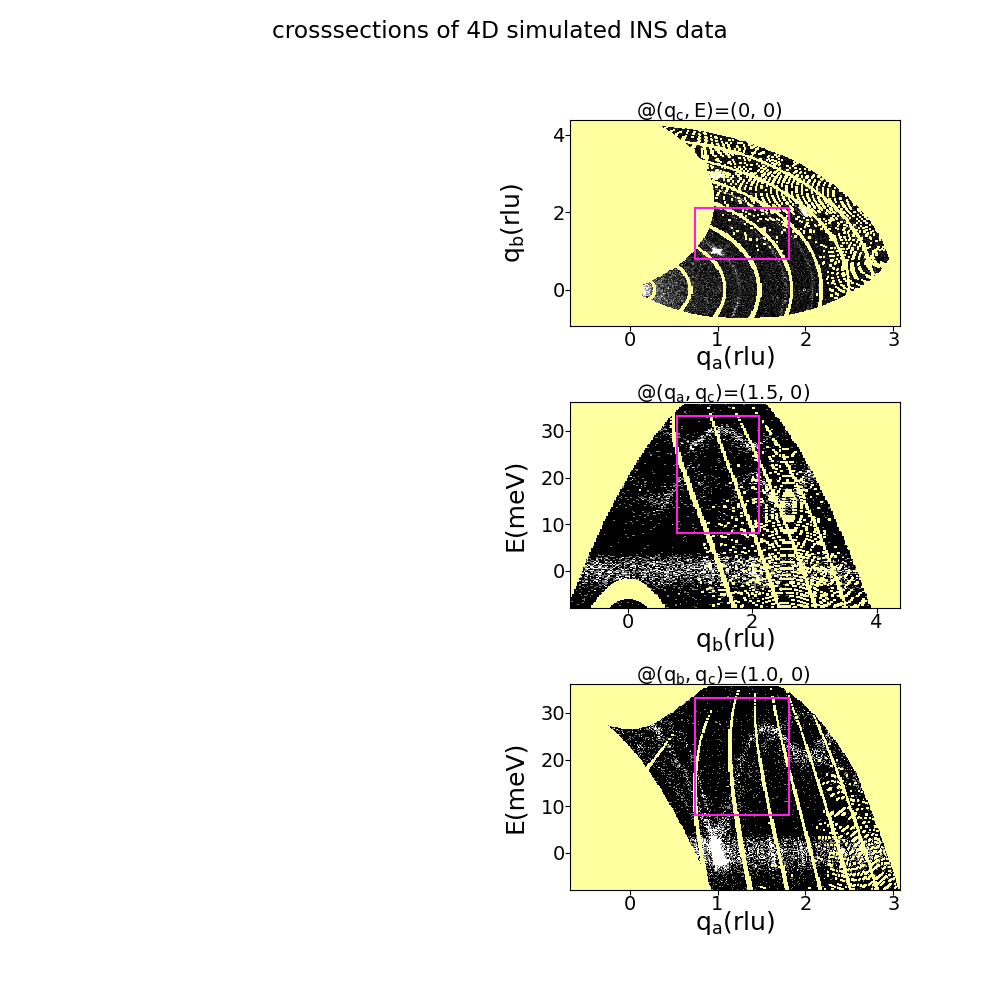
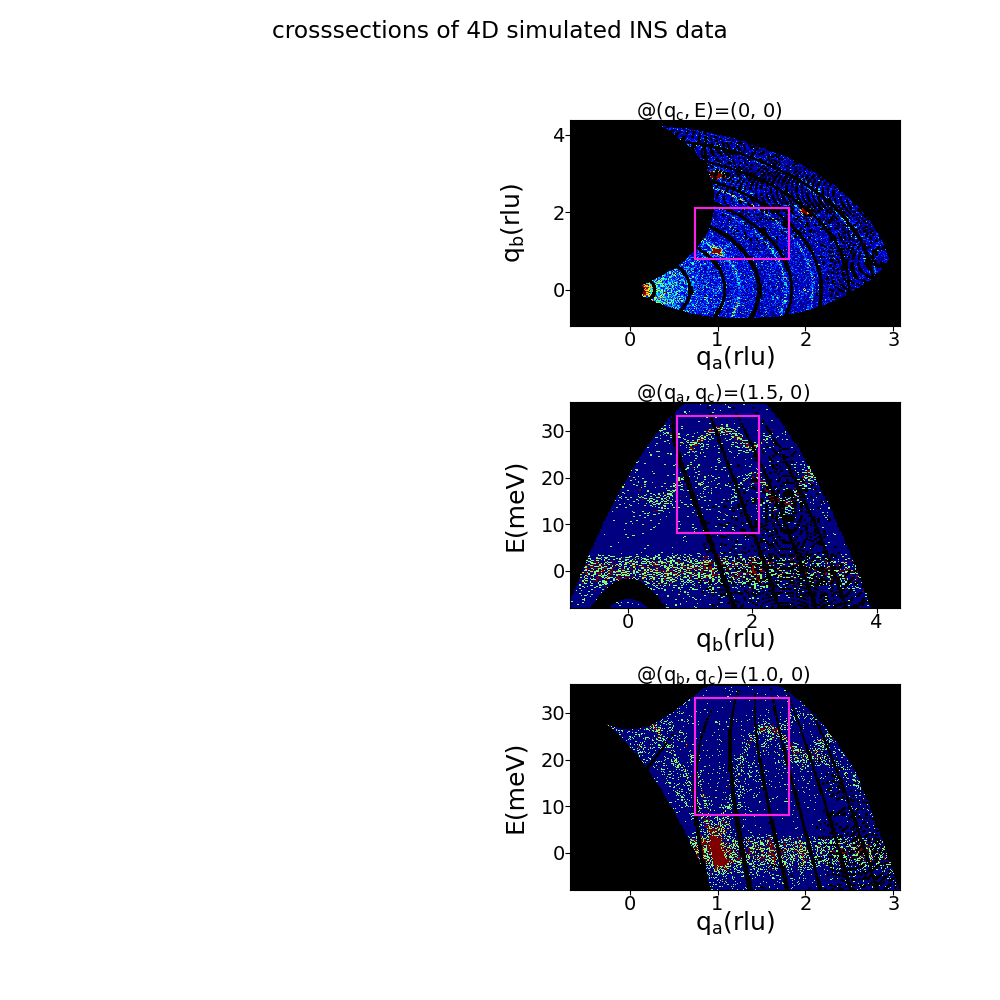
for_advsoft_koenkai

Changed region(s): [[0.558, 0.682, 0.899, 0.899], [0.558, 0.403, 0.899, 0.62], [0.558, 0.124, 0.899, 0.341]]

diff --git a/fig_for_resultexample_advsoft_koenkai.py b/fig_for_resultexample_advsoft_koenkai.py
@@ -7,14 +7,14 @@ plt.rcParams['font.family'] = 'Arial'
 plt.rcParams["font.size"] = 14
 #plt.rcParams["xtick.top"] = True
 #plt.rcParams["xtick.labeltop"] = True
-fig = plt.figure(figsize=(10, 10))
-fig.suptitle("crosssections of 4D simulated INS data")
+fig = plt.figure(figsize=(16, 16))
+fig.suptitle("crosssections of 4D INS data")
 
 
 def plotter(xlim, ylim, lx, ly, data, vn, hn, cn, dev, xr, yr, hvlofs, cposinfo):
     from matplotlib.cm import get_cmap
-    cmap = get_cmap("gist_gray")
-    cmap.set_under(color='white')
+    cmap = get_cmap("jet")
+    cmap.set_under(color='k')
     ax = fig.add_subplot(vn,  hn, cn)
     print(np.max(data))
 
@@ -22,13 +22,18 @@ def plotter(xlim, ylim, lx, ly, data, vn, hn, cn, dev, xr, yr, hvlofs, cposinfo)
     v = np.linspace(yr[0], yr[1], data.shape[1]+1)
     X,Y = np.meshgrid(u, v)
     zm = np.ma.masked_where(data >= 0, data).T
+    print("fuck",np.min(data))
 
     if int(np.max(data[xlim[0]:xlim[1], ylim[0]:ylim[1]])/dev) != 0:
-        ax.pcolor(X, Y, np.transpose(data), vmin=0, vmax=int(np.max(data[xlim[0]:xlim[1], ylim[0]:ylim[1]])/dev), cmap=cmap)
+        #ax.pcolor(X, Y, np.transpose(data), vmin=0, vmax=int(np.max(data[xlim[0]:xlim[1], ylim[0]:ylim[1]])/dev), cmap=cmap)
+        c=ax.pcolor(X, Y, np.transpose(data), vmin=0, vmax=int(np.max(data[xlim[0]:xlim[1], ylim[0]:ylim[1]])/dev), cmap=cmap)
     else:
-        ax.pcolor(X, Y, np.transpose(data), vmin=0, vmax=np.max(data)/dev, cmap=cmap)
+        #ax.pcolor(X, Y, np.transpose(data), vmin=0, vmax=np.max(data)/dev, cmap=cmap)
+        c=ax.pcolor(X, Y, np.transpose(data), vmin=0, vmax=np.max(data)/dev, cmap=cmap)
 
-    ax.pcolor(X, Y, zm, color='k', cmap=cmap)
+    fig.colorbar(c, ax=ax)
+    #c=ax.pcolor(X, Y, zm, color='k', cmap='jet')
+    #ax.pcolor(X, Y, zm, color='#feff9e', cmap=cmap)
 
     ax.set_xlabel(lx, fontsize=18)
     ax.set_ylabel(ly, fontsize=18)
@@ -77,29 +82,43 @@ def plot_crosssection_more_useful(cnum, lims_int,
                                                                + ranges[:, 0]
     print("cposval",cposval)
     cposinfo = '@$\mathregular{(q_c, E)}$' + "=({:.0f}, {:.0f})".format(cposval[2], cposval[3])
-    plotter(lims_int[0,:], lims_int[1,:], '$\mathregular{q_a(rlu)}$', '$\mathregular{q_b(rlu)}$', data4[:, :, cpos[2], cpos[3]],
+    data2d = np.sum(np.sum(data4[:, :, cpos[2]:cpos[2]+2, cpos[3]:cpos[3]+4],axis=3),axis=2)
+    condition2d = np.sum(np.sum(condition[:, :, cpos[2]:cpos[2]+2, cpos[3]:cpos[3]+4],axis=3),axis=2)
+    condition2d[condition2d > 0] = 1
+    print(np.max(condition2d))
+    print(np.min(condition2d))
+    data2d = preprocess(data2d, condition2d)
+    plotter(lims_int[0,:], lims_int[1,:], '$\mathregular{q_a(rlu)}$', '$\mathregular{q_b(rlu)}$', data2d,
             3, 2, cnum, devs[0], ranges[0, :], ranges[1, :],
             hvlofs, cposinfo)
     cposinfo = '@$\mathregular{(q_a, q_c)}$'+"=({:.1f}, {:.0f})".format(cposval[0], cposval[2])
-    plotter(lims_int[1,:], lims_int[3,:], '$\mathregular{q_b(rlu)}$', 'E(meV)',  data4[cpos[0], :, cpos[2], :],
+    data2d = np.sum(np.sum(data4[cpos[0]:cpos[0]+3, :, cpos[2]:cpos[2]+2, :],axis=2),axis=0)
+    condition2d = np.sum(np.sum(condition[cpos[0]:cpos[0]+3, :, cpos[2]:cpos[2]+2, :],axis=2),axis=0)
+    condition2d[condition2d > 0] = 1
+    print(np.max(condition2d))
+    print(np.min(condition2d))
+    data2d = preprocess(data2d, condition2d)
+    plotter(lims_int[1,:], lims_int[3,:], '$\mathregular{q_b(rlu)}$', 'E(meV)',  data2d,
             3, 2, cnum+2, devs[1], ranges[1, :], ranges[3, :],
             hvlofs, cposinfo)
     cposinfo = '@$\mathregular{(q_b, q_c)}$'+"=({:.1f}, {:.0f})".format(cposval[1],cposval[2])
-    plotter(lims_int[0,:],lims_int[3,:], '$\mathregular{q_a(rlu)}$', 'E(meV)',  data4[:, cpos[1], cpos[2], :],
+    data2d = np.sum(np.sum(data4[:, cpos[1]:cpos[1]+2, cpos[2]:cpos[2]+2, :], axis=2),axis=1)
+    condition2d = np.sum(np.sum(condition[:, cpos[1]:cpos[1]+2, cpos[2]:cpos[2]+2, :], axis=2),axis=1)
+    condition2d[condition2d > 0] = 1
+    print(np.max(condition2d))
+    print(np.min(condition2d))
+    data2d = preprocess(data2d, condition2d)
+    plotter(lims_int[0,:],lims_int[3,:], '$\mathregular{q_a(rlu)}$', 'E(meV)',  data2d,
             3, 2, cnum+4, devs[2], ranges[0, :], ranges[3, :],
             hvlofs, cposinfo)
 
 
-def preprocess(outfile):
-    f = h5py.File(outfile, 'r')
-    data4 = np.array(f["data4"])
-    print(data4.shape)
-    condition = np.array(f["condition"])
-    data4=data4*condition*1.0
+def preprocess(data, condition):
+    data=data*condition*1.0
     maxc = np.max(condition)
-    data4[ condition > 0.1 ] = data4[ condition > 0.1 ] / condition[ condition > 0.1] * maxc
-    data4[ condition <= 0.1 ] = -10000.0
-    return(data4, condition)
+    data[ condition > 0.1 ] = data[ condition > 0.1 ] / condition[ condition > 0.1] * maxc
+    data[ condition <= 0.1 ] = -10000.0
+    return(data)
 
 
 def run2(cnum, outfile, lims, ns, ranges, hvlofs, devs,  cpos):
@@ -108,62 +127,27 @@ def run2(cnum, outfile, lims, ns, ranges, hvlofs, devs,  cpos):
         for j in range(0, lims.shape[1]):
             lims_int[i, j] = int(round(lims[i, j]/ns[i]))
     print("lims_int:", lims_int)
-    data4, condition = preprocess(outfile)
+    f = h5py.File(outfile, 'r')
+    data4 = np.array(f["data4"])
+    condition = np.array(f["condition"])
     plot_crosssection_more_useful(cnum, lims_int,
                                   condition, data4, ranges, hvlofs, devs, cpos)
 
 
 def run():
-    #head = "/home/kazu/desktop/"
-    #tail = "hist.hdf5"
-
-#    cnum = 1
-#    outfile = "/home/kazu/desktop/200312/for_cu_new/filled_again2_ddscs/422h/eliminated_data.hdf5"
-#    lims = np.array([[120, 155], [121, 152], [20, 52], [20, 70]])*1.0
-#    ns = np.array([1, 1, 1, 1])*1.
-#    ranges = np.array([[-1.65, 4.1], [-2.1, 2.8], [-0.85, 0.9], [0, 40.5]])
-#    hvlofs = False                                                # whether hvlines are displaced by a small value from the axis. This should be true when the line overlap on the axes.
-#    devs = np.array([70, 1.2, 1])
-#    cpos = np.array([107, 145, 35, 0])
-#    run2(cnum, outfile, lims, ns, ranges, hvlofs, devs, cpos)
-
-#    cnum = 2
-#    outfile = "/home/kazu/desktop/200312/for_cu_new/filled_again2_ddscs/422h/eliminated_data.hdf5"
-#    lims = np.array([[120, 155], [121, 152], [20, 52], [20, 70]])*1.0
-#    ns = np.array([1, 1, 1, 1])*1.
-#    ranges = np.array([[-1.65, 4.1], [-2.1, 2.8], [-0.85, 0.9], [0, 40.5]])
-#    hvlofs = False                                                # whether hvlines are displaced by a small value from the axis. This should be true when the line overlap on the axes.
-#    devs = np.array([70, 1.2, 1])
-#    cpos = np.array([107, 145, 35, 0])
-#    run2(cnum, outfile, lims, ns, ranges, hvlofs, devs, cpos)
-
     cnum = 2
-    #outfile = head + "200522/Ei42/veryfineq/14m/" + tail
     outfile = "/home/kazu/desktop//200522/Ei42/veryfineq/14m/Output4D_00_840.hdf5"
     lims = np.array([[114, 200], [69, 122], [11, 20], [81, 207]])*1.0
-    #ns = np.array([3, 2, 2, 4])*1.
     ns = np.array([1, 1, 1, 1])*1.
     ranges = np.array([[-0.675, 3.075], [-0.925, 4.375], [-0.8, 0.55], [-8.0, 36.2]])
     hvlofs = False                                              
     devs = np.array([40, 3, 3])
-    #cpos = np.array([58, 39, 8, 10])
     cpos = np.array([175, 78, 17, 41])
     run2(cnum, outfile, lims, ns, ranges, hvlofs, devs, cpos)
-#
-#    cnum = 3
-#    outfile = head + "200522/Ei24/fineq/26m/" + tail
-#    lims = np.array([[0, 228], [1, 202], [0, 8], [150, 289]])*1.0
-#    ns = np.array([2, 3, 2, 4])*1.
-#    ranges = np.array([[0.01, 2.29], [-0.67, 1.35], [-0.16, 0.16], [-2.0, 21.12]])
-#    hvlofs = True                                          
-#    devs = np.array([1, 1, 1])
-#    dev2 = 8
-#    cpos = np.array([75, 39, 2, 6])
-#    run2(cnum, outfile, lims, ns, ranges, hvlofs, devs, dev2, cpos)
     plt.subplots_adjust(wspace=0.35, hspace=0.37)
 
 
 run()
 #plt.savefig("Ei42_crosssections.pdf")
-plt.savefig("Ei42_crosssections.png")
+plt.savefig("Ei42_advsoft_crosssections.png")
 plt.show()

diff --git a/generate_testdata_class.py b/generate_testdata_class.py
@@ -1,6 +1,5 @@
 #!/usr/bin/env python
 import numpy as np
-import matplotlib.pyplot as plt
 from scipy.optimize import minimize
 
 
@@ -17,6 +16,7 @@ class generate_testdata:
         for sigma, mean, weight in zip(self.sigmas, self.means, self.ints):
             self.pdf[1, :] += weight*np.exp(-(x - mean)**2/sigma**2)\
                          / (2.0*np.pi)**0.5 / sigma
+        self.pdf[1, :] = self.pdf[1, :]/np.sum(self.pdf[1, :])/(x[1]-x[0])
         self.pdf[0, :] = x
 
     def rate(self, x):
@@ -32,6 +32,7 @@ class generate_testdata:
     def get_maxrate(self):
         x0 = 0.5
         results = minimize(self.neg_rate, x0)
+        print(results)
         self.maxrate = -results.fun
 
     def generate_homogeneous_point_process(self):
@@ -43,20 +44,44 @@ class generate_testdata:
                                           self.numpoints) <
                                           self.rate(self.homoxdata)]
 
-    def histogram(self, nbins):
+    def mise(self, x):
+        bins = np.arange(0, 1.0+x, x)
+        histdata = np.histogram(self.inhomoxdata, bins=bins, density=True)
+        theta = histdata[0]
+        x = histdata[1][:]
+        mise = 0.0
+        dpdfx = self.pdf[0, 1] - self.pdf[0, 0]
+        for idx, xi in enumerate(x[:-1]):
+            for jdx, pdf in enumerate(self.pdf[1, :]):
+                if self.pdf[0, jdx] >= xi and self.pdf[0, jdx] < x[idx+1]:
+                    mise += (theta[idx] - pdf)**2*dpdfx
+        return(mise)
+
+    def pdfhist(self, x):
+        bins = np.arange(0, 1.0+x, x)
+        dpdfx = self.pdf[0, 1] - self.pdf[0, 0]
+        hist = np.zeros((2, bins.shape[0]-1))
+        for idx, xi in enumerate(bins[0:-1]):
+            hist[0, idx] = (bins[idx]+bins[idx+1])/2
+            for jdx, pdf in enumerate(self.pdf[0, :]):
+                if pdf >= xi and pdf < bins[idx+1]:
+                    hist[1, idx] += self.pdf[1, jdx]*dpdfx/x
+        return hist
 
 
-def samplerun():
-    proj = generate_testdata([0.3, 0.8], [0.2, 0.4], [0.2, 0.2], 400)
-    proj.get_maxrate()
-    print(proj.maxrate)
-    proj.generate_homogeneous_point_process()
-    proj.thinning()
-    proj.pdf()
-    print(proj.inhomoxdata)
-    plt.scatter(proj.inhomoxdata, np.zeros_like(proj.inhomoxdata), marker='|')
-    plt.plot(proj.pdf[0, :], proj.pdf[1, :])
-    plt.show()
 
 
-samplerun()
+
+#def samplerun():
+#    proj = generate_testdata([0.3, 0.8], [0.2, 0.4], [0.2, 0.2], 400)
+#    proj.get_maxrate()
+#    print(proj.maxrate)
+#    proj.generate_homogeneous_point_process()
+#    proj.thinning()
+#    proj.pdf()
+#    print(proj.inhomoxdata)
+#    plt.scatter(proj.inhomoxdata, np.zeros_like(proj.inhomoxdata), marker='|')
+##    plt.plot(proj.pdf[0, :], proj.pdf[1, :])
+#    plt.show()
+
+#samplerun()

diff --git a/crosssection_of_4ddata_class.py b/crosssection_of_4ddata_class.py
@@ -14,7 +14,8 @@ class CROSS:
 
     def __init__(self, outfile, orthotope_lims, wholeranges, devs,
                  cpos, hvlofs=False, binwidths=np.ones(4),
-                 common_lims=None, filled=False, mb=0.3, showorthob=True):
+                 common_lims=None, filled=False, mb=0.3, showorthob=True,
+                 vivid=False):
         self.outfile = outfile
         self.orthotope_lims = orthotope_lims
         self.wholeranges = wholeranges
@@ -26,6 +27,7 @@ class CROSS:
         self.filled = filled
         self.mb = mb
         self.showorthob = showorthob
+        self.vivid = vivid
     
     def get_data(self):
         if self.filled:
@@ -150,10 +152,21 @@ class CROSS:
         v = np.linspace(yr[0], yr[1], data.shape[1]+1)
         X, Y = np.meshgrid(u, v)
 
-        c = ax.pcolor(X, Y, np.transpose(data), vmin=0,
+        if not self.vivid:
+            c = ax.pcolor(X, Y, np.transpose(data), vmin=0,
+                          vmax=int(np.max(data[xlim[0]:xlim[1], ylim[0]:ylim[1]])
+                                   / dev),
+                          cmap=self.custom_cmap)
+            self.fig.colorbar(c, ax=ax)
+        else:
+            zm = np.ma.masked_where(data >= 0, data).T
+            ax.pcolor(X, Y, np.transpose(data), vmin=0,
                       vmax=int(np.max(data[xlim[0]:xlim[1], ylim[0]:ylim[1]])
                                / dev),
-                      cmap=self.custom_cmap)
+                      cmap='jet')
+            cmap = get_cmap("gist_gray")
+            cmap.set_under(color='white')
+            ax.pcolor(X, Y, zm, color='k', cmap=cmap)
 
         #ax.set_xlabel(lx, fontsize=12)
         #ax.set_ylabel(ly, fontsize=12)
@@ -207,11 +220,10 @@ class CROSS:
                        right=False, labelleft=True, width=1.5)
         #ax.axis('tight')
         ax.text((xr[1]+xr[0])*.6, yr[1]*1.04, cposinfo)
-        self.fig.colorbar(c, ax=ax)
 
-    def create_fig(self, title=None):
+    def create_fig(self, title=None, xdim=8.8, ydim=8.8):
         self.create_cmap()
-        self.fig = plt.figure(figsize=(8.8, 8.8))
+        self.fig = plt.figure(figsize=(xdim, ydim))
         if title is None:
             self.fig.suptitle("crosssections of 4D INS intensity initial " +
                               "aray for bin-widths optimization",

diff --git a/crosssection_of_hist_using_class.py b/crosssection_of_hist_using_class.py
@@ -20,8 +20,8 @@ def run():
     #cpos = np.array([107, 145, 34, 0])
 
     pro = c4c.CROSS(outfile, orthotope_lims, wholeranges, devs, cpos,
-                    hvlofs=False, binwidths=binwidths)
-    pro.create_fig()
+                    hvlofs=False, binwidths=binwidths, showorthob=False, vivid=True)
+    pro.create_fig(xdim=24, ydim=24)
     pro.get_data()
     pro.plot_crosssection(1, xyyx=True)
 
